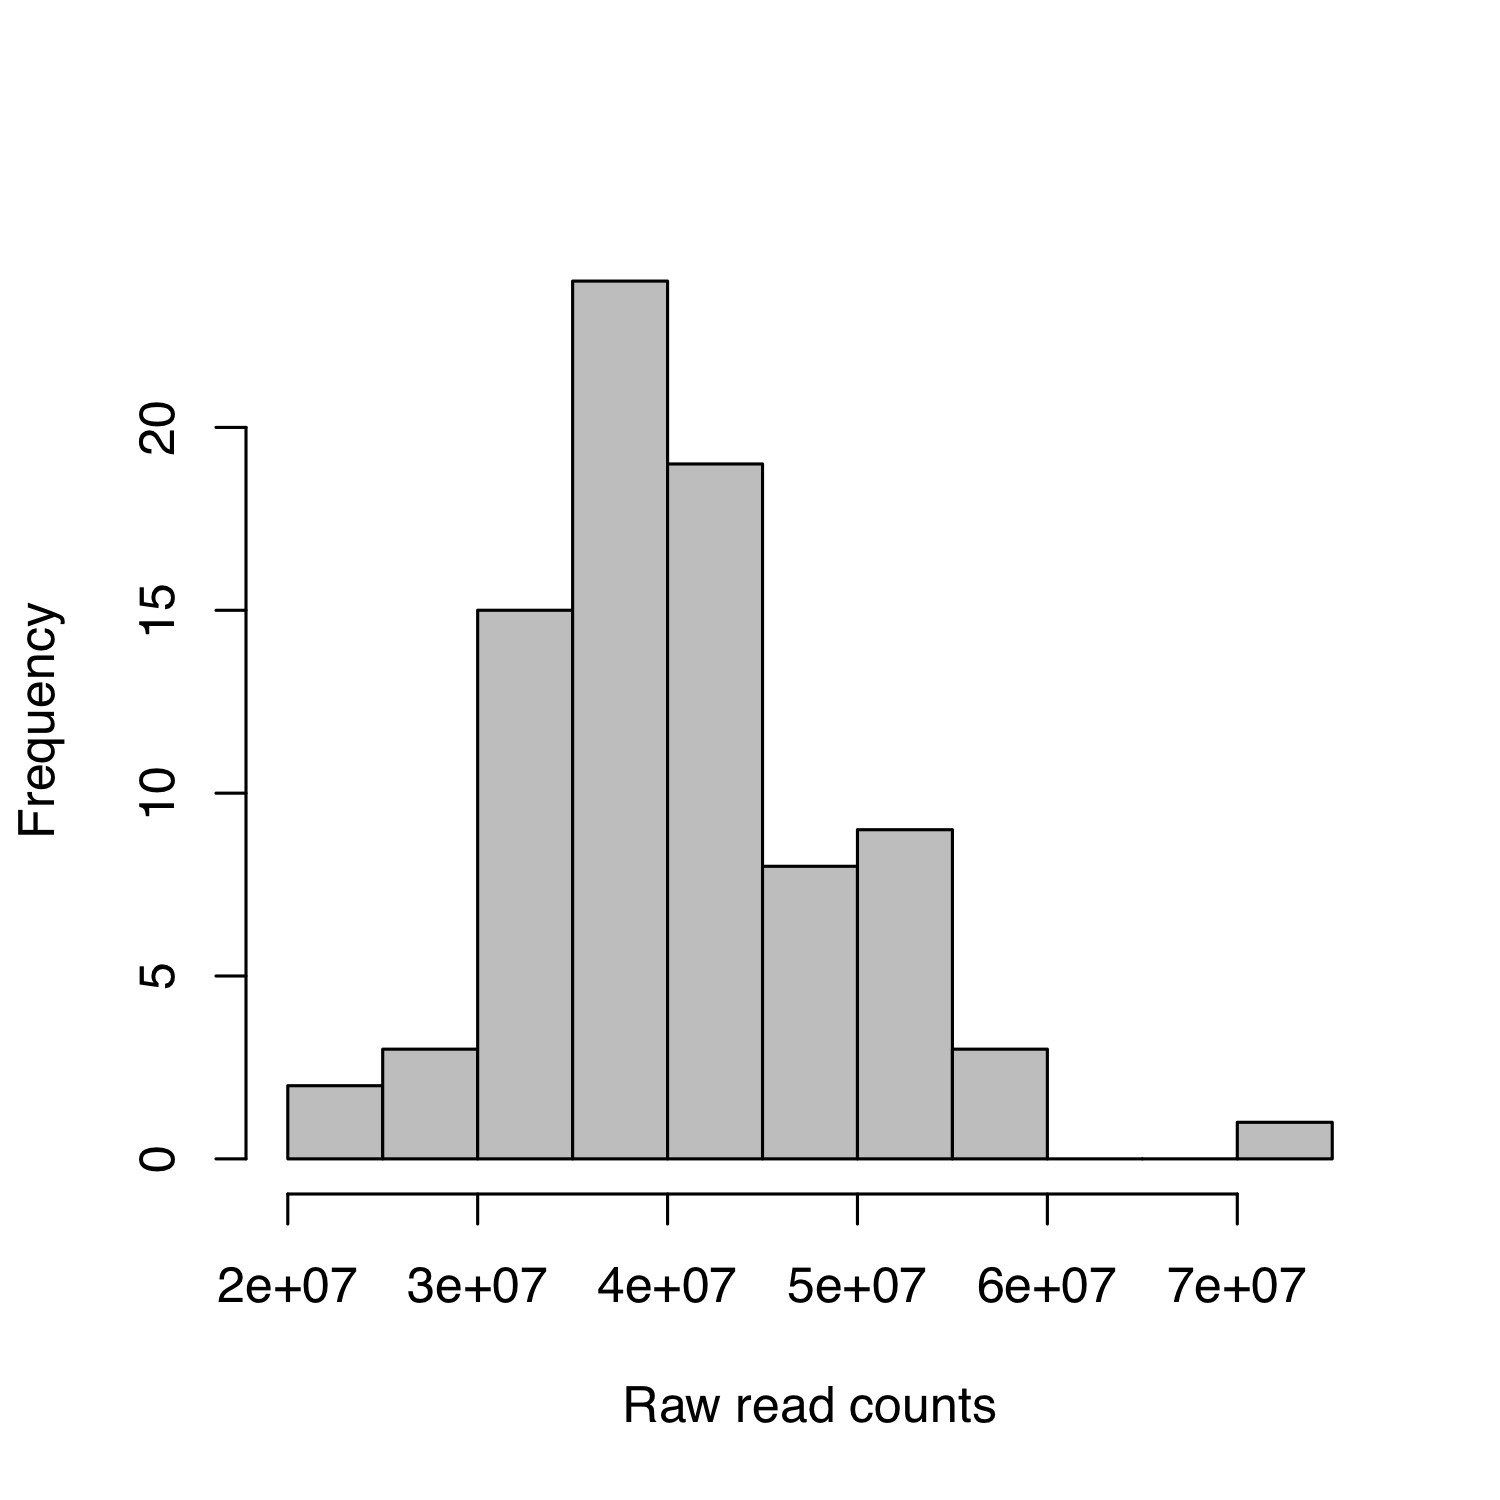
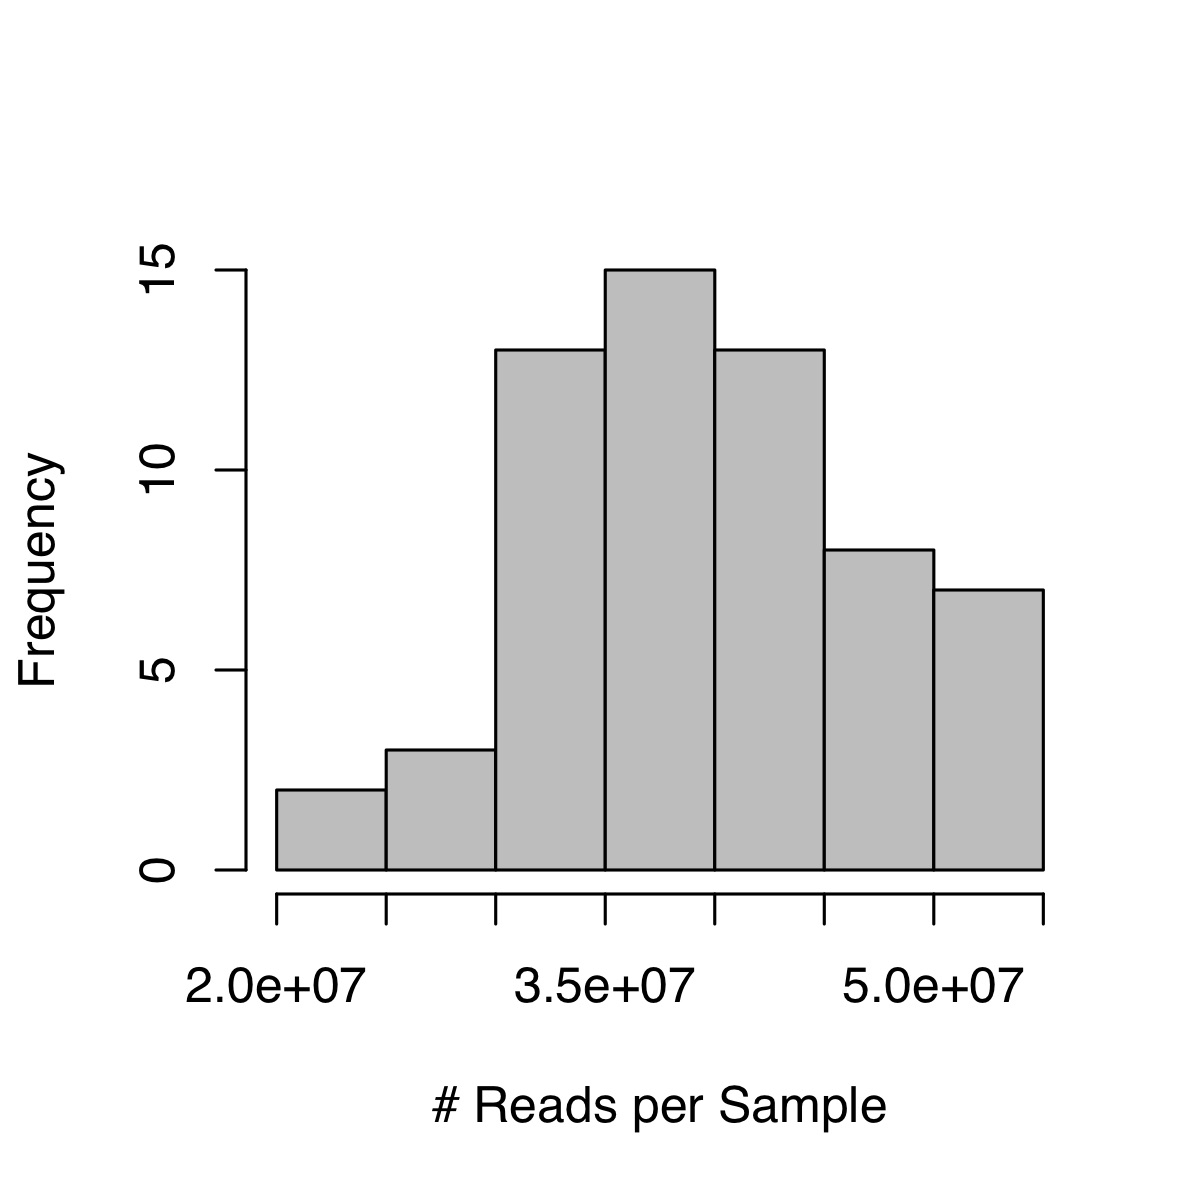
fixes to R assignment 1

diff --git a/pages/R_assignments/R_assignment1.md b/pages/R_assignments/R_assignment1.md
@@ -57,7 +57,7 @@ The table of gene expression levels is very large and so ```summary``` and ```st
 
 We need to subset the gene expression table to only those samples found in the metadata table. The sample names are the row names of the gene expression table (which you can see with ```rownames```).
 
-**Q5**: Which column of the metadata table does this correspond to?
+**Q5**: Which column of the metadata table does this correspond to? Hint: you can see the first few lines of a table with ```head```.
 
 You can check for which elements of one vectors is present in another vector with ```which``` and ```%in%```. For example:
 
@@ -70,7 +70,9 @@ which(tmp %in% tmp2)
 
 The above means that the elements with indices 3-5 in ```tmp``` were found in ```tmp2```.
 
-**Q6**: How many samples in the gene expression table are not found in the metadata table?
+**Q6**: How many samples in the gene expression table are **not** found in the metadata table?
+
+Subset the gene expression table to only those samples that overlap with the subsetted metadata table.  
 
 The gene expression table is currently raw read counts. You can get the total read counts per sample with ```rowSums```.
 

diff --git a/pages/R_assignments/R_assignment1_answers.md b/pages/R_assignments/R_assignment1_answers.md
@@ -5,20 +5,20 @@
 
 * Q3: 32 males and 31 females
 
-* Q4: 4684344 (84 rows * 55766 columns)
+* Q4: 4684260 (84 rows * 55765 columns)
 
 * Q5:  The External.ID column
 
-* Q6: 0
+* Q6: 23
 
 * Q7: 
 
 <td class="left">
-        <img src="{{ BASE_PATH }}/assets/plots/R_workshops/assignment1/raw_sample_count_hist.jpg" alt="assets/plots/R_workshops/assignment1/raw_sample_count_hist.jpg" title="ass1_hist" align="middle" height="200" width="200">
+        <img src="{{ BASE_PATH }}/assets/plots/R_workshops/assignment1/raw_sample_count_hist.jpg" alt="assets/plots/R_workshops/assignment1/raw_sample_count_hist.jpg" title="ass1_hist" align="middle" height="300" width="300">
 </td>
 
 
-* Q8: CSM5FZ1J
+* Q8: HSM5FZBE
 
 * Q9:  
 

diff --git a/index.md b/index.md
@@ -3,7 +3,7 @@ layout: page
 title: Home
 ---
 
-### This website is currently in the early stages of construction!
+### This website is under construction!
 
 <td align="center">>
         <img src="assets/pictures/personal/carrickfergus_guard.jpg" alt="assets/pictures/personal/carrickfergus_guard.jpg" title="carrickfergus_guard" align="middle" height="831" width="513">
